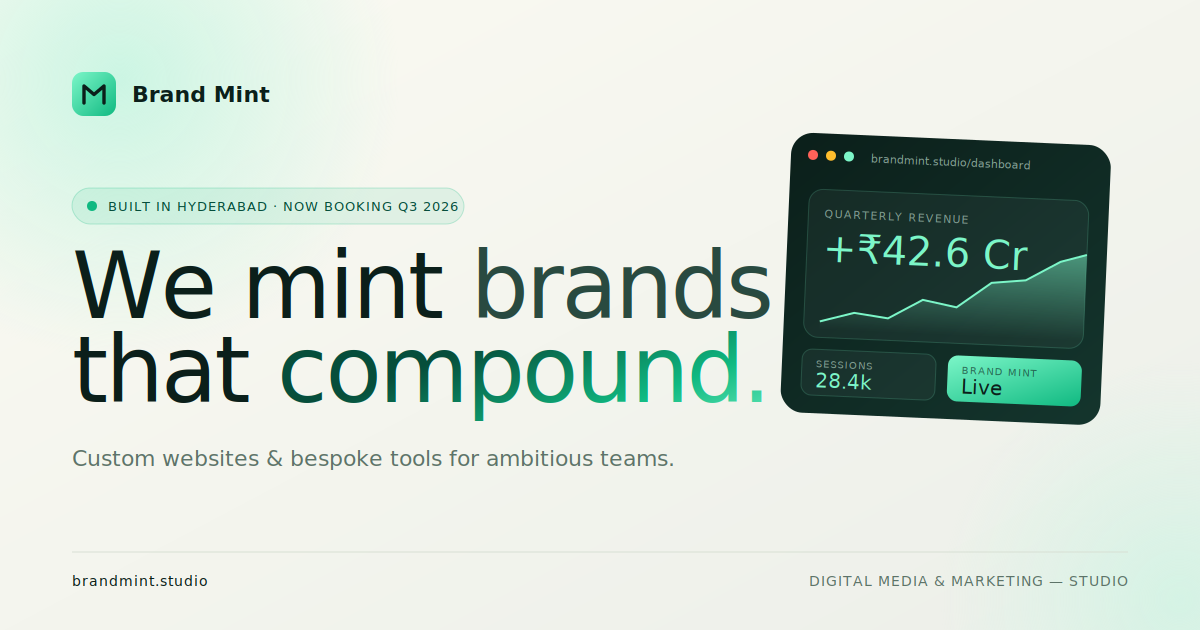
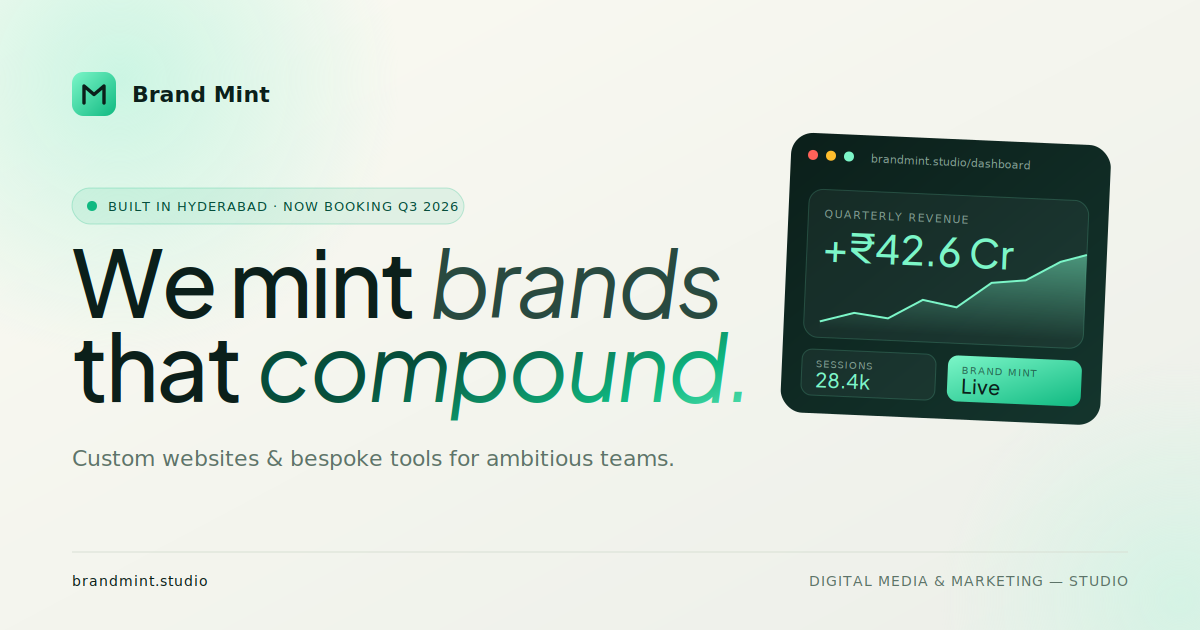
Replace Instrument Serif with Plus Jakarta Sans across the site
Per CEO direction, the highlighted Custom websites heading (Instrument
Serif) reads dated and editorial; modern conversion-focused landing
pages lean sans. Swap site-wide for Plus Jakarta Sans — a variable
sans with true italic, strong display character, and a startup-tech
register that matches our pricing positioning.

Display swap
- Drop Instrument Serif and Lora from the Google Fonts request; add
  Plus Jakarta Sans (with italics 400-600, weights 400-800)
- Introduce --display token in styles.css; --serif now aliases to it so
  every existing var(--serif) call keeps working without a mass rename
- Bump font-weights for hero, section, service, case, process, leader,
  FAQ, CTA and metric headings from 400 -> 600 (Plus Jakarta at 400
  reads thinner than Instrument did at the same size on display sizes)
- Editorial body: blockquote and the featured monogram bumped to 500

Scoped bm-clients section
- Replace 'Lora', Georgia, serif -> 'Plus Jakarta Sans', system-ui...
- Replace 'Poppins' -> 'Plus Jakarta Sans', 'Inter' so the whole site
  renders in one display family

OG / share card
- Update og-image.svg font references
- Install Plus Jakarta Sans into the build environment and re-render
  og-image.png so the WhatsApp/iMessage card uses the new face

https://claude.ai/code/session_01Mxc8guTUEMAd2NBPVj9TEQ

diff --git a/styles.css b/styles.css
@@ -21,13 +21,42 @@
   --radius-lg: 28px;
   --maxw: 1200px;
   --pad: clamp(20px, 4vw, 56px);
-  --serif: "Instrument Serif", "Times New Roman", serif;
+  --display: "Plus Jakarta Sans", system-ui, -apple-system, "Segoe UI",
+    Roboto, sans-serif;
+  --serif: var(--display);
   --sans: "Inter", system-ui, -apple-system, "Segoe UI", Roboto, sans-serif;
   --mono: "JetBrains Mono", ui-monospace, SFMono-Regular, Menlo, monospace;
 }
 
 * {
   box-sizing: border-box;
+}
+
+/* Display weight calibration for Plus Jakarta Sans.
+   Existing rules that set font-weight: 400 on display headings were tuned
+   for Instrument Serif. Plus Jakarta at 400 reads thin at hero/section
+   sizes, so bump to 600 for headlines and 500 for editorial body. */
+.hero-title,
+.section-head h2,
+.impact-head h2,
+.impact-num,
+.service h3,
+.case-body h3,
+.featured-type,
+.case-type,
+.case-body--featured h3,
+.process h3,
+.split-text h2,
+.leader h3,
+.faq summary,
+.cta-text h2,
+.metrics dd,
+.hero-meta strong {
+  font-weight: 600;
+}
+.quote blockquote,
+.featured-monogram {
+  font-weight: 500;
 }
 html {
   scroll-behavior: smooth;

diff --git a/index.html b/index.html
@@ -35,7 +35,7 @@
     <link rel="preconnect" href="https://fonts.googleapis.com" />
     <link rel="preconnect" href="https://fonts.gstatic.com" crossorigin />
     <link
-      href="https://fonts.googleapis.com/css2?family=Instrument+Serif:ital@0;1&family=Inter:wght@400;500;600;700&family=JetBrains+Mono:wght@400;500&family=Lora:ital,wght@0,400;0,500;1,400;1,500&family=Poppins:wght@400;500;600&display=swap"
+      href="https://fonts.googleapis.com/css2?family=Plus+Jakarta+Sans:ital,wght@0,400;0,500;0,600;0,700;0,800;1,400;1,500;1,600&family=Inter:wght@400;500;600;700&family=JetBrains+Mono:wght@400;500&display=swap"
       rel="stylesheet"
     />
     <link rel="stylesheet" href="styles.css" />
@@ -471,7 +471,7 @@
             padding: 120px 24px 140px;
             position: relative;
             overflow: hidden;
-            font-family: "Poppins", system-ui, sans-serif;
+            font-family: "Plus Jakarta Sans", "Inter", system-ui, sans-serif;
           }
           .bm-clients::before {
             content: "";
@@ -513,7 +513,7 @@
             background: var(--bm-emerald);
           }
           .bm-clients__title {
-            font-family: "Lora", Georgia, serif;
+            font-family: "Plus Jakarta Sans", system-ui, sans-serif;
             font-weight: 400;
             font-size: clamp(38px, 6vw, 68px);
             line-height: 1.05;
@@ -567,7 +567,7 @@
             opacity: 1;
           }
           .bm-card__num {
-            font-family: "Lora", Georgia, serif;
+            font-family: "Plus Jakarta Sans", system-ui, sans-serif;
             font-style: italic;
             font-size: 13px;
             color: var(--bm-gold);
@@ -576,7 +576,7 @@
             display: block;
           }
           .bm-card__name {
-            font-family: "Lora", Georgia, serif;
+            font-family: "Plus Jakarta Sans", system-ui, sans-serif;
             font-size: 30px;
             font-weight: 500;
             letter-spacing: -0.01em;
@@ -640,7 +640,7 @@
             transform: translateX(4px);
           }
           .bm-roster__heading {
-            font-family: "Lora", Georgia, serif;
+            font-family: "Plus Jakarta Sans", system-ui, sans-serif;
             font-style: italic;
             font-size: 14px;
             color: var(--bm-gold);
@@ -667,7 +667,7 @@
             background: var(--bm-ink-2);
           }
           .bm-roster__name {
-            font-family: "Lora", Georgia, serif;
+            font-family: "Plus Jakarta Sans", system-ui, sans-serif;
             font-size: 22px;
             font-weight: 500;
             letter-spacing: -0.01em;